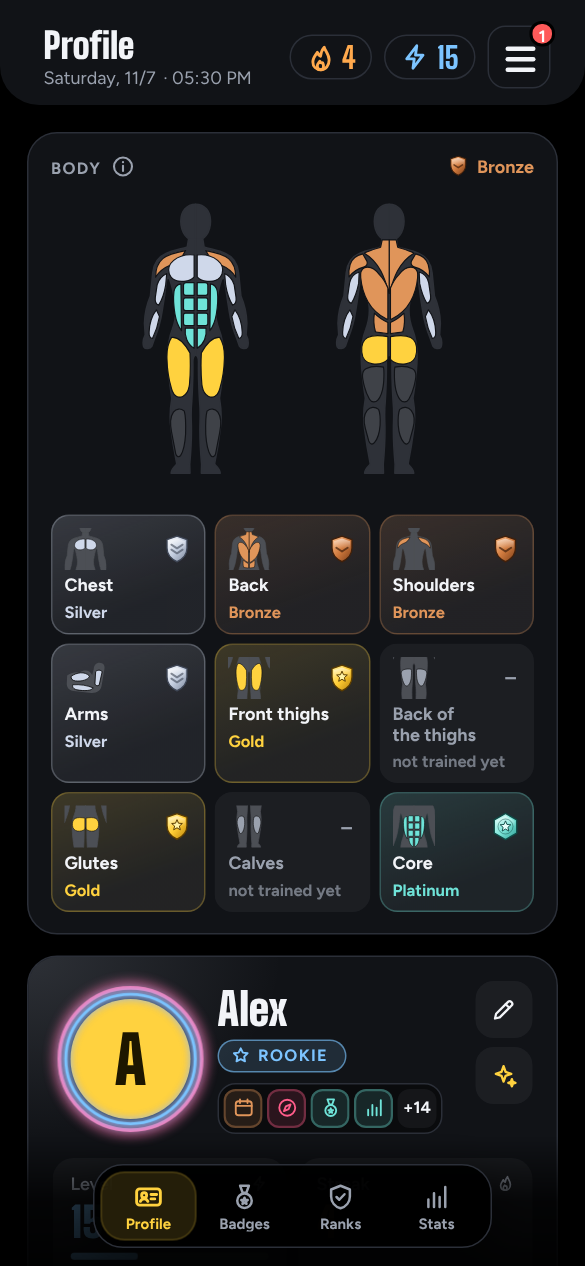
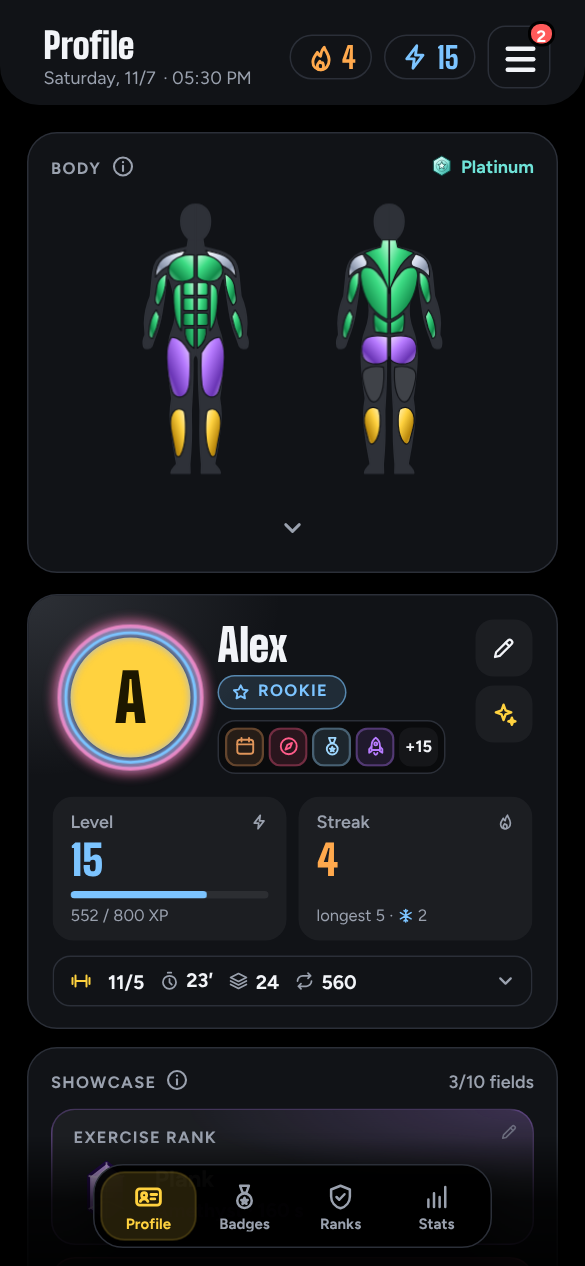
README for 1.10: Library, Together, Ranked, light theme, reminders; new screenshots
Claude-Session: https://claude.ai/code/session_017DbcSeYVhWFahffPDCCoto

diff --git a/README.md b/README.md
@@ -21,9 +21,9 @@
 <p align="center">
   <img src="docs/screens/home.png" width="16%" alt="Home: your week and today's workout">
   <img src="docs/screens/workout.png" width="16%" alt="A workout: last time and a +1 goal">
+  <img src="docs/screens/library.png" width="16%" alt="Library: plans from other people and from HW App">
   <img src="docs/screens/profile.png" width="16%" alt="Profile: body ranks">
-  <img src="docs/screens/history.png" width="16%" alt="History: a calendar of your workouts">
-  <img src="docs/screens/shop.png" width="16%" alt="Shop: profile looks for diamonds you earn">
+  <img src="docs/screens/together.png" width="16%" alt="Together: streaks you keep with a friend">
   <img src="docs/screens/deck.png" width="16%" alt="Muscle Deck: the card game">
 </p>
 
@@ -33,19 +33,20 @@
 
 | | What you get |
 |---|---|
-| 🗓 **Plans** | A ready plan (days A, B, C every other day: push, pull, legs, core, ~19 min) or your own workouts, set to the days of your week. |
+| 🗓 **Plans** | A ready plan (days A, B, C every other day: push, pull, legs, core, ~19 min), "Only 5 minutes" on a busy day, or your own workouts, set to the days of your week. |
+| 📚 **Library** | Plans from other people and from HW App: search, filter, try one before you save it, give stars to plans you trained, share your own or send one as a link. |
 | 💪 **134 exercises** | Bodyweight, dumbbells, kettlebells, bands, a pull-up bar, gym machines and cables, in body-part groups with a search that knows other names too. |
 | 📈 **Beat last time** | Every set starts at last time's number with a **+1 goal**. Weights log kg × reps and tell you when to go heavier. |
 | ⏱ **Rest that waits** | +15 / +30 / +60 s, counts on after 0 and saves your real rest. In the app it runs on the lock screen and beeps with the screen off. |
-| 🏆 **Ranks and badges** | Every exercise ranks from Iron to Obsidian, 9 body parts get ranks on a drawing of your body, 49 badges (some secret 🤫). |
-| 🔥 **Streaks** | Train every other day to keep the streak; freezes save it when life happens. |
-| 📅 **History** | A month calendar of your workouts, every set you did, and a progress chart for each exercise. |
+| 🏆 **Ranks and badges** | Every exercise ranks from Iron to Obsidian, 9 body parts get ranks on a drawing of your body, 50 badges (some secret 🤫), each one shareable as a picture. |
+| 🔥 **Streaks** | Train every other day to keep the streak; freezes save it when life happens, and an evening reminder comes before it would end. |
+| 📅 **History** | A month calendar of your workouts, every set you did, a progress chart for each exercise, a weekly recap and your year in numbers. |
 | 📊 **Stats** | 12 weeks day by day, weekly charts, your best weekdays, calories at a glance. |
 | 🍎 **Calories** | Daily target (Mifflin-St Jeor) with your workouts added, a food log and Health Connect (steps, weight, food). |
-| 👥 **Friends** | An optional account: friends, messages, friend streaks, a leaderboard and a profile they can open, with your last workout. |
-| 🃏 **Muscle Deck** | A card game powered by your training: higher ranks, stronger cards. 80 jokers, bosses, vouchers, drills, a shop and a practice game. |
-| 💎 **Shop** | Diamonds you earn by training: streak freezes, XP boosts and 91 profile looks (frames, banners, titles, name effects, animated effects). |
-| 🎨 **Yours** | 8 dark themes (pure black by default), 6 main colours, 6 card styles, 15 languages and a guide that shows you around. |
+| 👥 **Friends** | An optional account: friends, messages, a friends leaderboard and a profile they can open. **Together**: keep a workout or calorie streak with a friend, a weekly goal and a nudge; invite a friend and you both get 100 💎. |
+| 🃏 **Muscle Deck** | A card game powered by your training: higher ranks, stronger cards. 80 jokers, bosses, vouchers, drills, a shop and a practice game. **Ranked**: the same deal and the same deck as a real player, a rating and a rank from Iron to Obsidian. |
+| 💎 **Shop** | Diamonds you earn by training: streak freezes, XP boosts, 91 profile looks (frames, banners, titles, name effects, animated effects) and 8 card styles. |
+| 🎨 **Yours** | 8 dark themes (pure black by default), a light theme and an automatic one, 6 main colours, 15 languages and a guide that shows you around. |
 
 ## 📲 Get the app (Android 8.0+)
 
@@ -76,14 +77,15 @@ Open **[mikydon.github.io/hw-app](https://mikydon.github.io/hw-app/)** and add i
 
 - the rest timer on the lock screen, with a beep and vibration while the screen is off
 - Health Connect (steps, weight, height, food from other apps)
-- notifications for messages, friend requests and new versions
+- notifications for messages, friend requests and new versions, and an evening streak reminder
+- a bigger text size
 - backups saved in a folder on your phone, also automatically
 - 120 Hz, the same text size for everyone, vibration that works with touch feedback off
 </details>
 
 ## 🔒 Privacy
 
-Without an account, everything stays on your device. An account (optional, 16+) adds friends, messages, a profile page (you choose who sees it) and a cloud backup on Google Firebase, with restore points. Health Connect data never leaves your phone. The lock-screen rest timer asks for *Physical activity* only because Android requires it for that kind of timer; the app reads no activity data with it. Full policy: [privacy.html](https://mikydon.github.io/hw-app/privacy.html) · [delete your account](https://mikydon.github.io/hw-app/delete-account.html).
+Without an account, everything stays on your device. An account (optional, 16+) adds friends, messages, a profile page (you choose who sees it), plans you choose to share or publish in the Library, Ranked games and a cloud backup on Google Firebase, with restore points. Health Connect data never leaves your phone. The lock-screen rest timer asks for *Physical activity* only because Android requires it for that kind of timer; the app reads no activity data with it. Full policy: [privacy.html](https://mikydon.github.io/hw-app/privacy.html) · [delete your account](https://mikydon.github.io/hw-app/delete-account.html).
 
 ## 🌍 Languages
 
